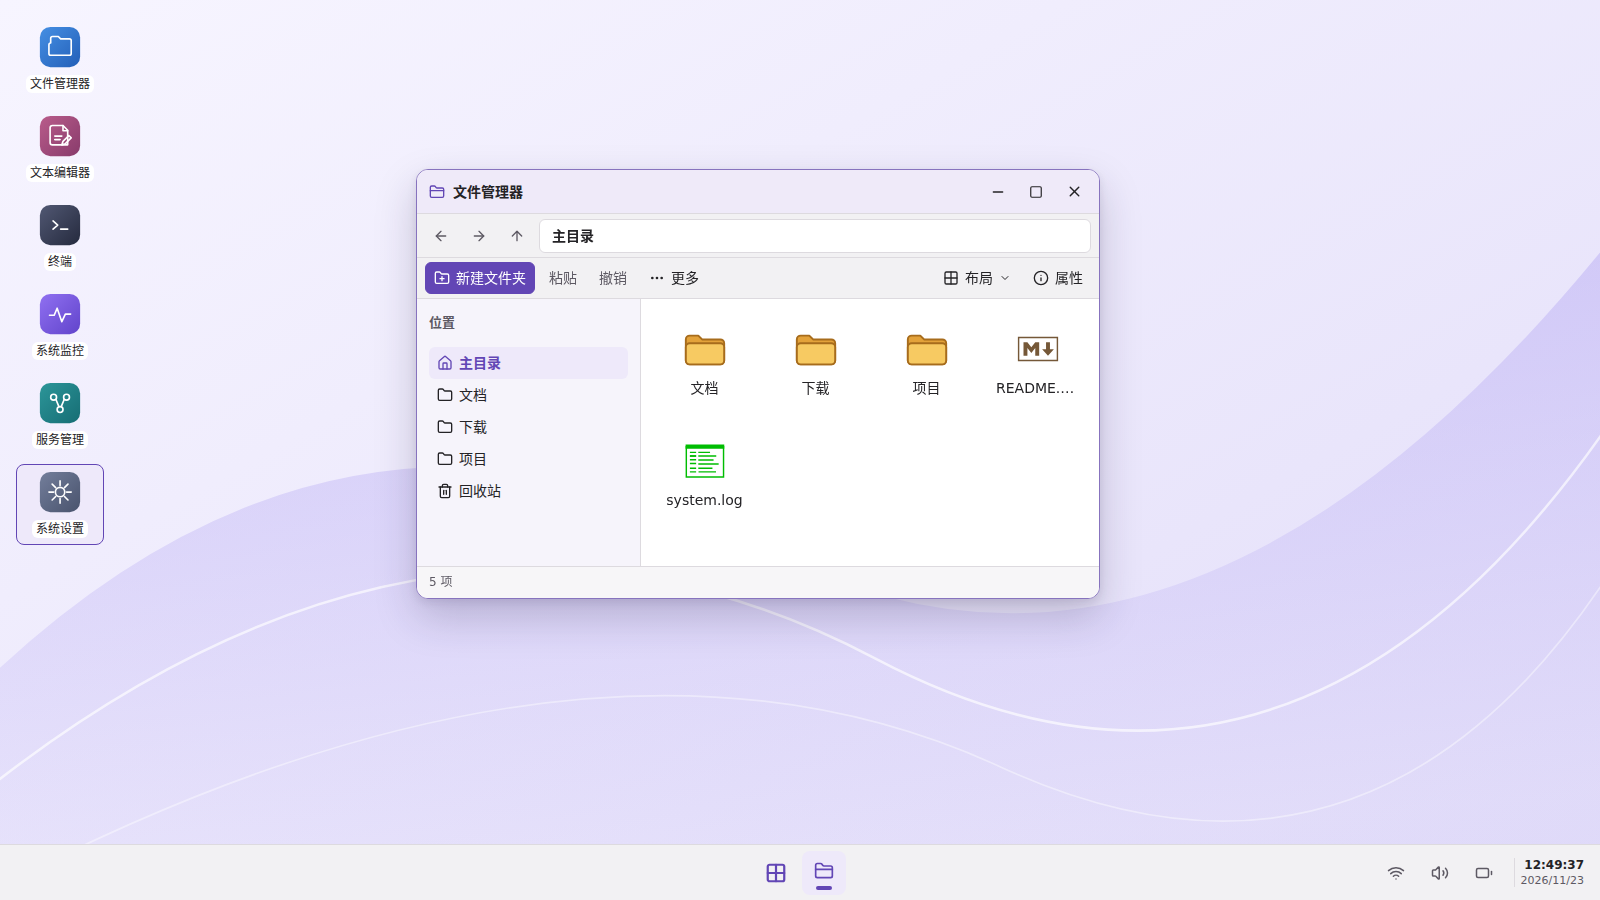
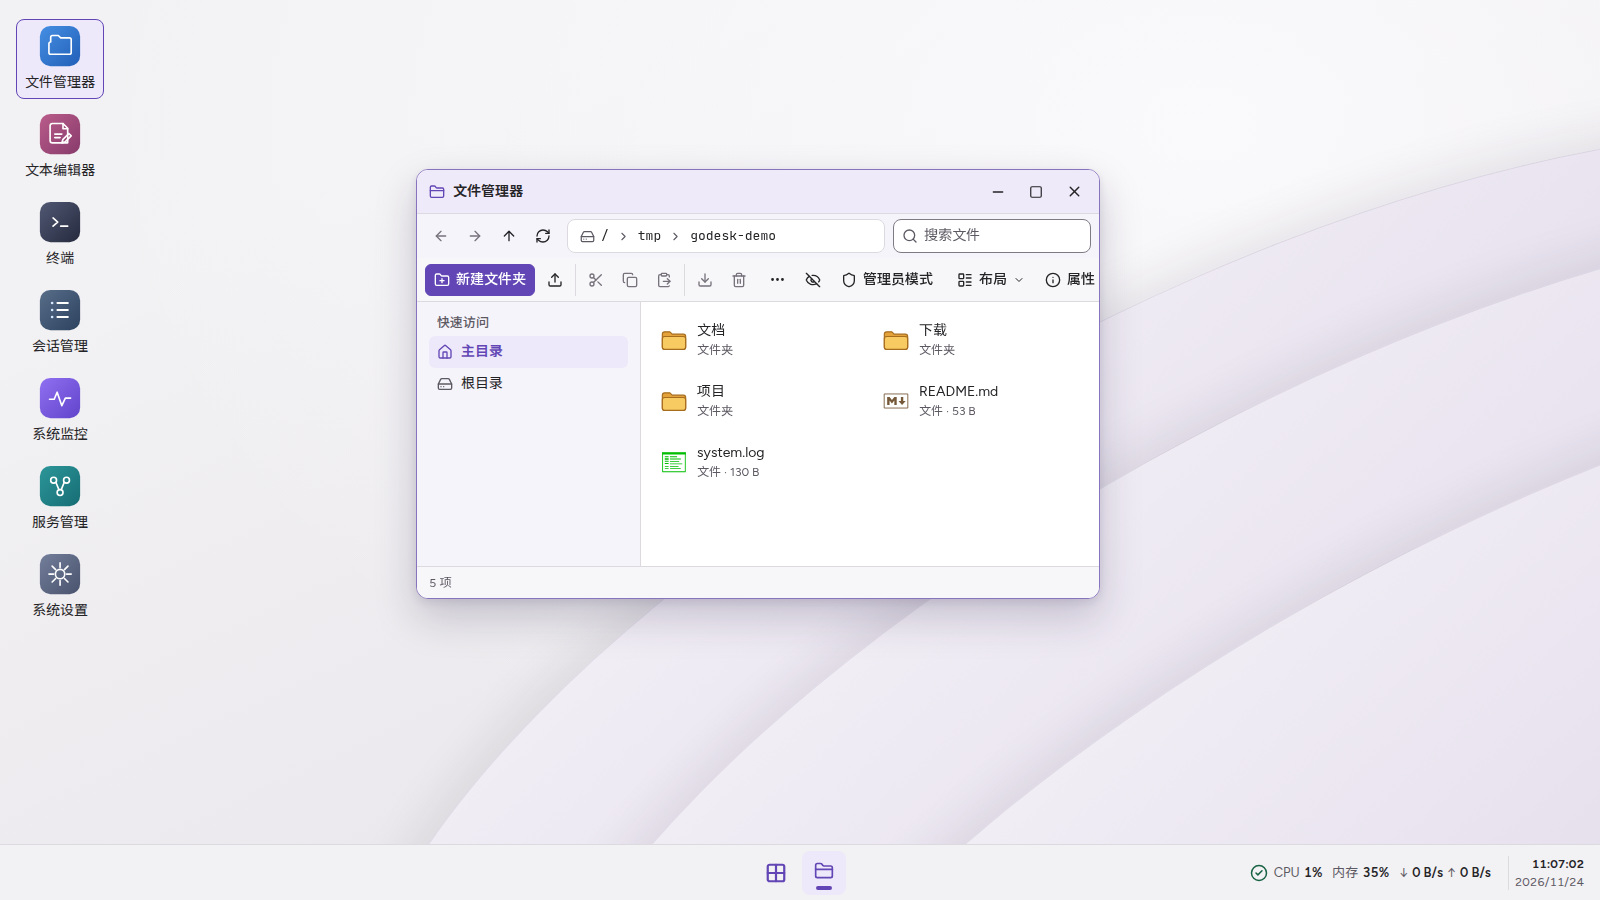
Refresh README screenshots and add release download notes
Recapture the desktop, start menu, and system monitor screenshots with the current UI, add a host health panel preview, and document downloading prebuilt Linux binaries from GitHub Releases.

diff --git a/frontend/README.md b/frontend/README.md
@@ -12,6 +12,8 @@ goDesk 的 `frontend/` 基于 React Web Desktop 脚手架，使用 React、TypeS
 | --- | --- |
 | ![深色桌面的开始菜单](docs/screenshots/start-menu-dark.png) | ![并排打开的系统设置和系统监控窗口](docs/screenshots/system-monitor-dark.png) |
 
+![主机健康面板](docs/screenshots/health-panel-dark.png)
+
 ## 快速开始
 
 在 `frontend/` 目录使用 Node.js 24 和 pnpm 12 运行以下命令。
